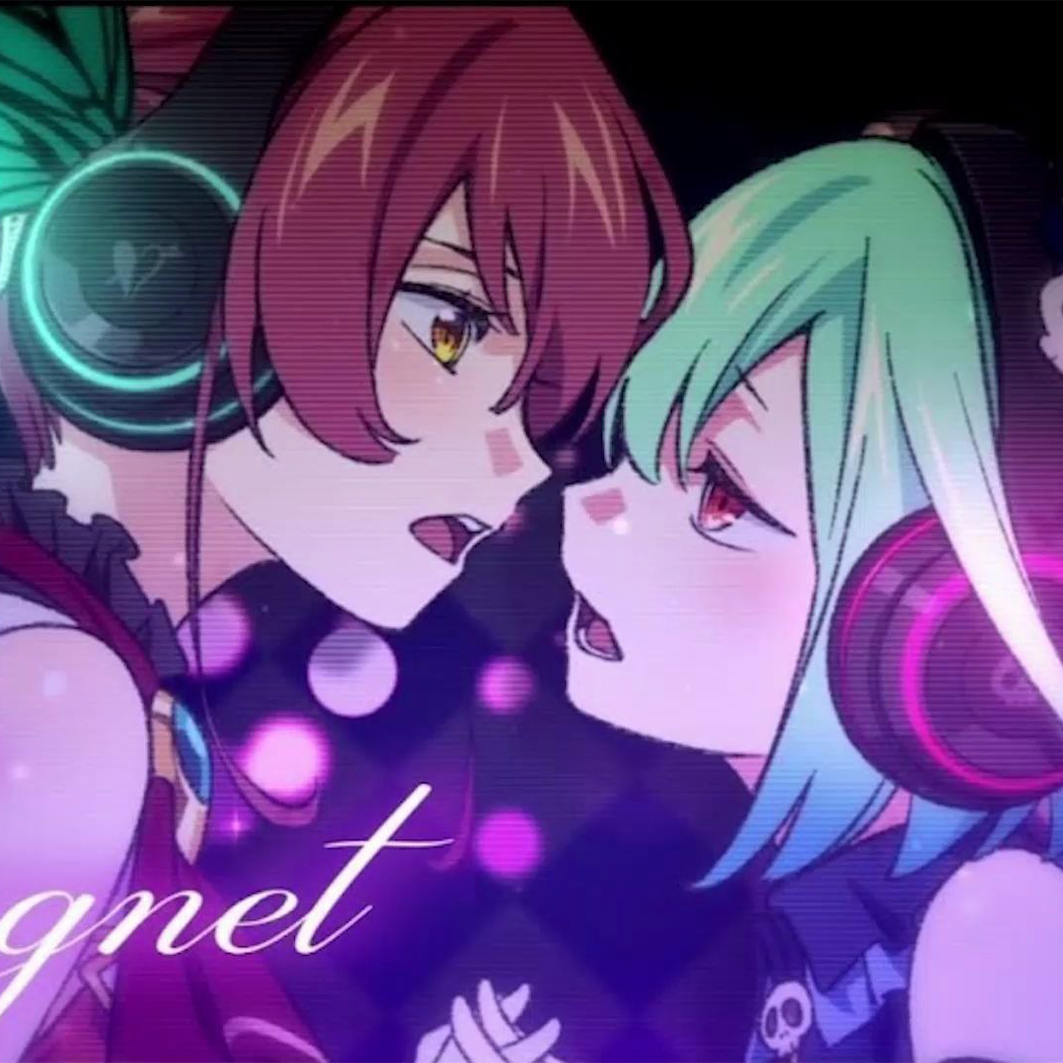
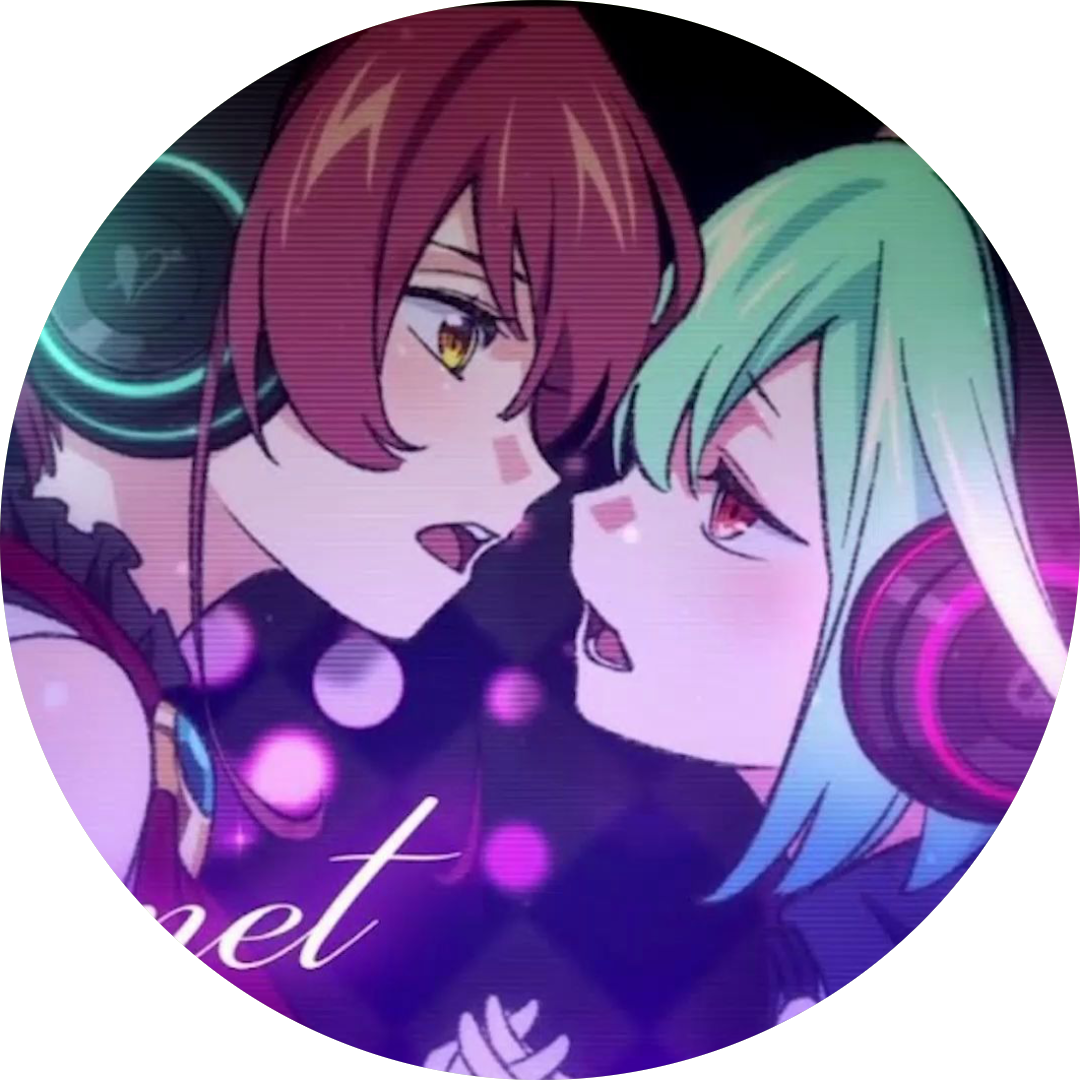
圖片變更

diff --git a/assets/js/player.js b/assets/js/player.js
@@ -1,19 +1,15 @@
 //創建一個音樂播放器的類 單例模式
 class Player {
-    constructor() { //類的構造函數
-        //如果類已經有實例了，就返回這個實例
+    constructor() { 
+       
         if (Player.instance) return Player.instance;
-        //如果没有實例化，就去構造一個實例
+       
         return this.getInstance(...arguments);
     }
 
     //構建實例
     getInstance() {
         let instance = new PlayerCreator(...arguments);
-        //讓實例可以使用到Player的原型的屬性方法
-        // instance.__proto__=Player.prototype;
-        // instance.constructor=Player;
-        //把構建好的實例掛在Player類上
         Player.instance = instance;
         return instance;
     }
@@ -114,7 +110,7 @@ class Musics {
                     title: 'magnet/宝鐘マリン・潤羽るしあ',
                     singer: '宝鐘マリン&潤羽るしあ',
                     songUrl: './songs/magnet宝鐘マリン潤羽るしあcover (Houshou Marine and Uruha Rushia).mp3',
-                    imageUrl: '../images/song/magnet宝鐘マリン潤羽るしあcover (Houshou Marine and Uruha Rushia).png'
+                    imageUrl: './images/song/magnet宝鐘マリン潤羽るしあcover (Houshou Marine and Uruha Rushia).png'
 
                 },
                 {
@@ -122,35 +118,35 @@ class Musics {
                     title: 'ゴーストルール天音かなた(Cover)',
                     singer: '天音かなた',
                     songUrl: './songs/ゴーストルール天音かなた(Cover).mp3',
-                    imageUrl: '../images/song/ゴーストルール天音かなた(Cover).png'
+                    imageUrl: './images/song/ゴーストルール天音かなた(Cover).png'
                 },
                 {
                     id: 15,
                     title: '恋愛裁判　Ver.戌神ころね',
                     singer: '戌神ころね',
                     songUrl: './songs/恋愛裁判　Ver.戌神ころね.mp3',
-                    imageUrl: '../images/song/恋愛裁判　Ver.戌神ころね.png'
+                    imageUrl: './images/song/恋愛裁判　Ver.戌神ころね.png'
                 },
                 {
                     id: 16,
                     title: '失礼しますがRIP',
                     singer: 'Calliope Mori',
                     songUrl: './songs/[ORIGINAL SONG] 失礼しますがRIP Excuse My Rudeness, But Could You Please RIP - Calliope Mori.mp3',
-                    imageUrl: '../images/song/[ORIGINAL SONG] 失礼しますがRIP Excuse My Rudeness, But Could You Please RIP - Calliope Mori.png'
+                    imageUrl: './images/song/[ORIGINAL SONG] 失礼しますがRIP Excuse My Rudeness, But Could You Please RIP - Calliope Mori.png'
                 },
                 {
                     id: 17,
                     title: '曇天羊角巻わため feat.Calliope Moriオリジナル曲',
                     singer: '角巻わため',
                     songUrl: './songs/曇天羊角巻わため feat.Calliope Moriオリジナル曲.mp3',
-                    imageUrl: '../images/song/曇天羊角巻わため feat.Calliope Moriオリジナル曲.png'
+                    imageUrl: './images/song/曇天羊角巻わため feat.Calliope Moriオリジナル曲.png'
                 },
                 {
                     id: 18,
                     title: 'ゾンビランドサガフランシュシュ佐賀事変(Cover)',
                     singer: '星街すいせい&Hololive三期生',
                     songUrl: './songs/ゾンビランドサガフランシュシュ佐賀事変 星街すいせい with ホロライブファンタジー(Cover).mp3',
-                    imageUrl: '../images/song/ゾンビランドサガフランシュシュ佐賀事変 星街すいせい with ホロライブファンタジー(Cover).png'
+                    imageUrl: './images/song/ゾンビランドサガフランシュシュ佐賀事変 星街すいせい with ホロライブファンタジー(Cover).png'
                 },
                 {
                     id: 19,

diff --git a/assets/css/player.css b/assets/css/player.css
@@ -134,8 +134,8 @@
 .music-player__image {
     text-align: center;
     width: 70%;
-    height: 57.225%;
-    border-radius: 50%;
+    height: 54%;
+    
     position: absolute;
     overflow: hidden;
     left: 0;
